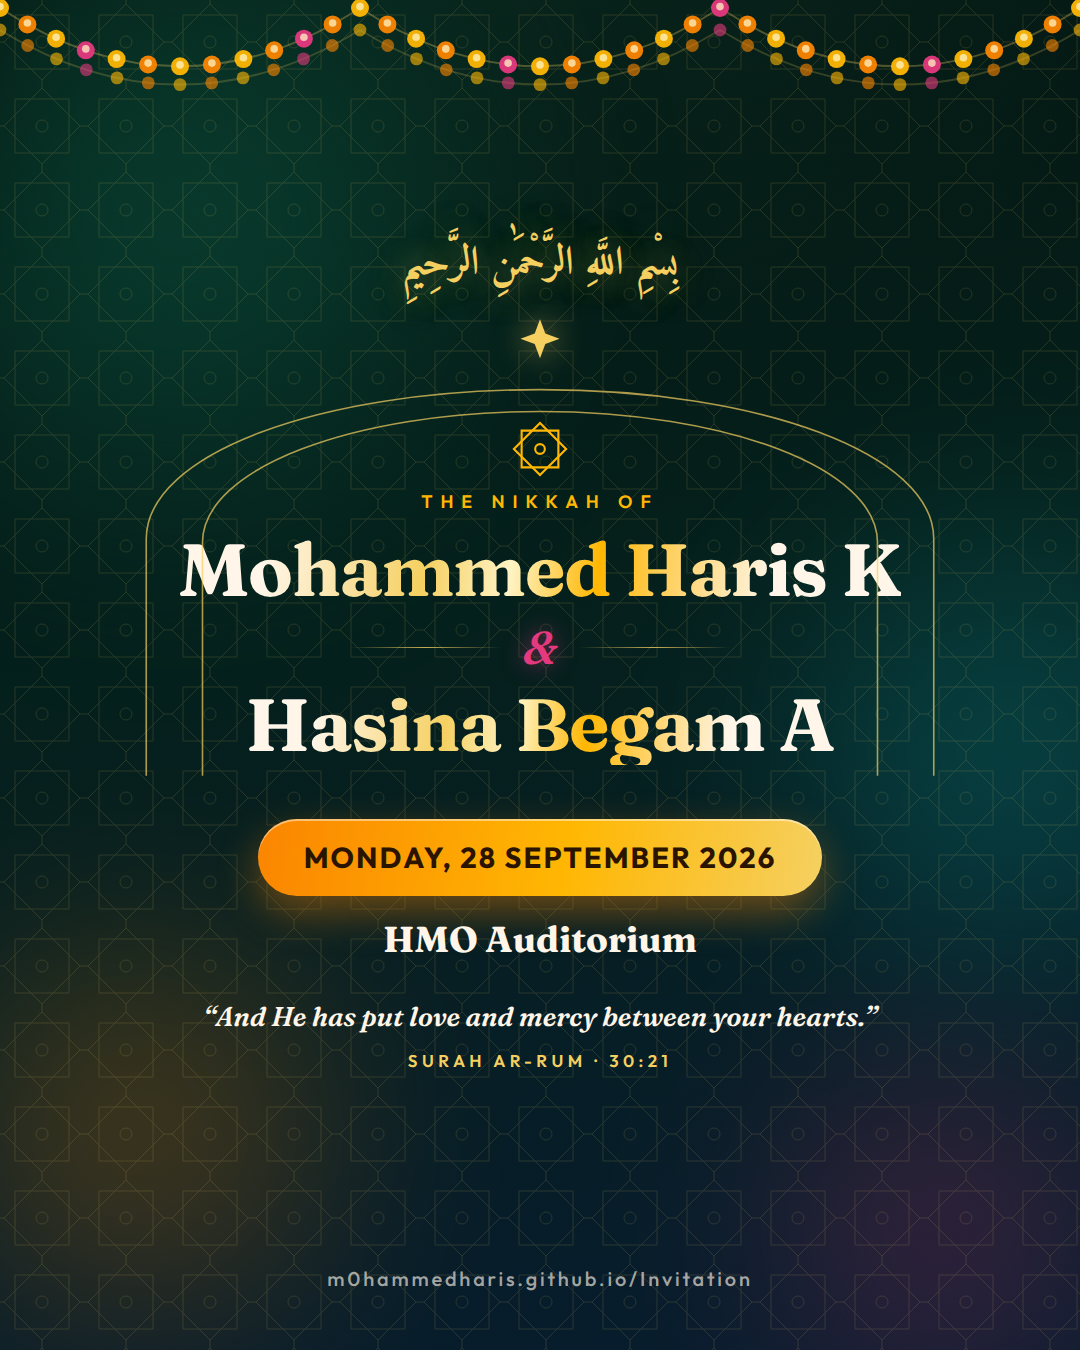
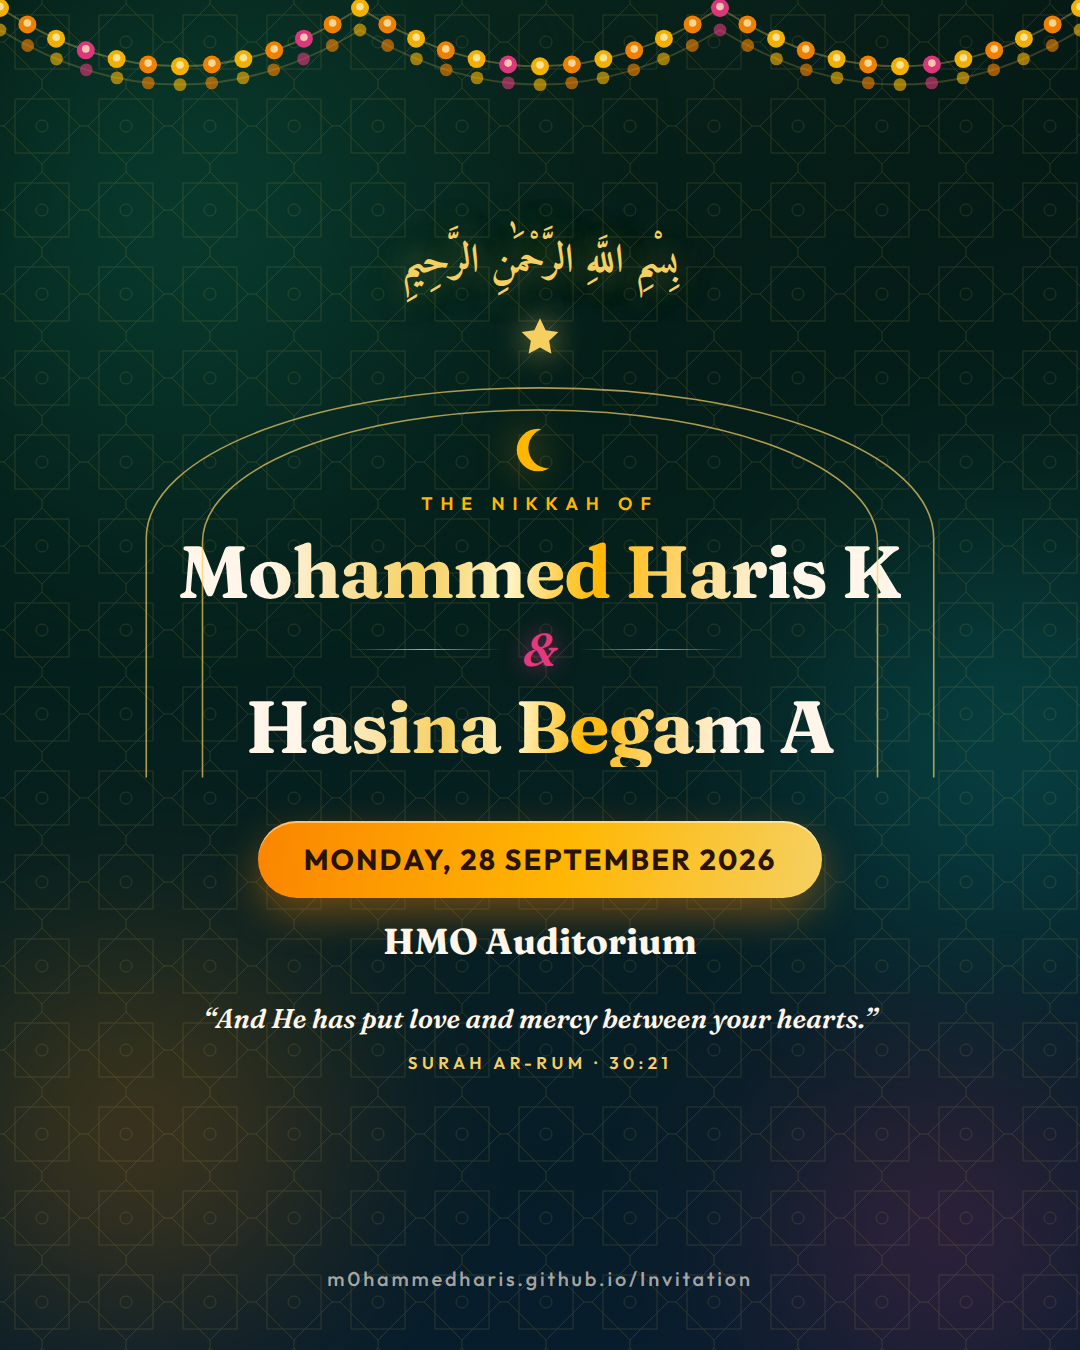
Use the crescent moon, and add a gentle auto-scroll
Symbols: the eight-pointed star medallions above "The Nikkah of" and in
the footer are now the hilal, the crescent moon, matching the other
designs. The arch apex is a five-pointed star rather than a generic
four-point sparkle, so the crescent and star together read as the
Islamic symbol. The OG image and the shareable poster follow suit.

The girih lattice in the background is left as it is: it is a real
Islamic geometric pattern rather than a decorative mark, and tiling
crescents in its place would look like wallpaper.

Auto-scroll: after seven seconds on the hero — long enough to take in
the names and the date — the page walks itself down through the verse,
countdown, details and share sections, pausing on each. Any sign the
guest wants to steer (wheel, touch, key, pointer, or their own scroll)
hands control back permanently. It never runs under
prefers-reduced-motion, and it does not count time while the tab is in
the background.

Also renamed the crescent's keyframe to `tilt`; declaring it as `sway`
would have silently overridden the garland buds' animation of the same
name.

Claude-Session: https://claude.ai/code/session_01T3JYopABqw7Toi6fBV24kk

diff --git a/script.js b/script.js
@@ -330,6 +330,67 @@
     });
   }
 
+  /* ── 8. Gentle auto-scroll ──────────────────────────────────
+     Walks the guest down the invitation once, pausing long enough to
+     read each stop. Any hint that they want to steer — a wheel, a
+     touch, a key, the scrollbar — hands control back for good.      */
+
+  function autoTour() {
+    if (reduceMotion) { return; }
+
+    var stops = ["#verse", "#countdown", "#details", "#share"]
+      .map(function (sel) { return document.querySelector(sel); })
+      .filter(Boolean);
+    if (!stops.length) { return; }
+
+    var FIRST = 7000;   // time to take in the names and the date
+    var NEXT  = 6500;   // time to read each section after that
+    var i = 0;
+    var timer = null;
+    var stopped = false;
+    var settling = false;   // true while our own smooth scroll is running
+
+    function cancel() {
+      if (stopped) { return; }
+      stopped = true;
+      window.clearTimeout(timer);
+      ["wheel", "touchstart", "keydown", "pointerdown", "scroll"].forEach(function (ev) {
+        window.removeEventListener(ev, onIntent, true);
+      });
+    }
+
+    function onIntent(e) {
+      // Our own smooth scrolling fires scroll events; only a real input
+      // during that window counts as the guest taking over.
+      if (e.type === "scroll" && settling) { return; }
+      cancel();
+    }
+
+    function step() {
+      if (stopped || i >= stops.length) { cancel(); return; }
+
+      settling = true;
+      stops[i].scrollIntoView({ behavior: "smooth", block: "start" });
+      i++;
+
+      // Let the smooth scroll finish before we listen to scroll again
+      window.setTimeout(function () { settling = false; }, 1400);
+      timer = window.setTimeout(step, NEXT);
+    }
+
+    ["wheel", "touchstart", "keydown", "pointerdown", "scroll"].forEach(function (ev) {
+      window.addEventListener(ev, onIntent, { capture: true, passive: true });
+    });
+
+    // Don't count time while the tab is in the background
+    document.addEventListener("visibilitychange", function () {
+      if (document.hidden) { window.clearTimeout(timer); }
+      else if (!stopped) { timer = window.setTimeout(step, NEXT); }
+    });
+
+    timer = window.setTimeout(step, FIRST);
+  }
+
   /* ── boot ───────────────────────────────────────────────── */
 
   function init() {
@@ -340,6 +401,7 @@
     rise();
     addToCalendar();
     copyLink();
+    autoTour();
   }
 
   if (document.readyState === "loading") {

diff --git a/style.css b/style.css
@@ -260,23 +260,35 @@ body {
   gap: .55rem;
 }
 
-/* 8-point khatam star */
+/* Hilal — the crescent moon */
 /* Both animations are declared together: an ambient `animation` on an
    element that also carries [data-in] would otherwise replace the entry
    animation and strand it at opacity 0. */
-.khatam {
+.hilal {
   display: block;
-  width: 40px;
-  height: 40px;
+  width: 46px;
+  height: 46px;
   color: var(--marigold);
+  filter: drop-shadow(0 0 16px rgba(255, 183, 3, .45));
   animation:
     liftIn 1s var(--ease) var(--d, 0s) both,
-    spin 34s linear infinite;
+    tilt 9s ease-in-out infinite;
 }
-.khatam svg { width: 100%; height: 100%; display: block; }
-.khatam path, .khatam circle { stroke: currentColor; stroke-width: 2.2; }
-.khatam--sm { width: 30px; height: 30px; color: var(--gold); opacity: .8; margin: 0 auto 1rem; }
-@keyframes spin { to { transform: rotate(360deg); } }
+.hilal svg { width: 100%; height: 100%; display: block; }
+.hilal--sm {
+  width: 40px;
+  height: 40px;
+  color: var(--gold);
+  margin: 0 auto 1rem;
+  filter: drop-shadow(0 0 14px rgba(245, 208, 97, .4));
+}
+
+/* A moon should tilt, not spin. Named `tilt` because `sway` is already
+   taken by the garland buds. */
+@keyframes tilt {
+  0%, 100% { transform: rotate(-8deg); }
+  50%      { transform: rotate(8deg); }
+}
 
 .kicker {
   margin: .3rem 0 0;
@@ -312,7 +324,7 @@ body {
   -webkit-background-clip: text;
   background-clip: text;
   color: transparent;
-  /* Entry lift and gold sweep together — see the note on .khatam */
+  /* Entry lift and gold sweep together — see the note on .hilal */
   animation:
     liftIn 1s var(--ease) var(--d, 0s) both,
     leaf 9s ease-in-out infinite;
@@ -740,7 +752,7 @@ main { position: relative; z-index: 5; }
   .nm        { font-size: 3.4rem; }
   .amp       { width: min(100%, 340px); }
   .amp b     { font-size: 1.9rem; }
-  .khatam    { width: 48px; height: 48px; }
+  .hilal     { width: 54px; height: 54px; }
   .kicker    { font-size: .78rem; }
 
   /* Wide enough to hold one line instead of breaking after "at" */

diff --git a/index.html b/index.html
@@ -61,15 +61,17 @@
 
     <!-- Kept out of the stretched arch so the star stays a star -->
     <svg class="spark" viewBox="0 0 40 40" aria-hidden="true">
-      <path d="M20 1 l4.6 12.4 12.4 4.6 -12.4 4.6 -4.6 12.4 -4.6 -12.4 -12.4 -4.6 12.4 -4.6 z"/>
+      <path d="M20 2 l4.94 10.35 11.06 1.5 -8.06 7.73 1.98 11.17L20 27.4 l-9.92 5.35 1.98-11.17 -8.06-7.73 11.06-1.5 z"/>
     </svg>
 
     <div class="hero-core">
-      <span class="khatam" data-in style="--d:.5s" aria-hidden="true">
-        <svg viewBox="0 0 60 60" fill="none">
-          <path d="M30 3 L57 30 L30 57 L3 30 Z"/>
-          <path d="M11 11 H49 V49 H11 Z"/>
-          <circle cx="30" cy="30" r="5"/>
+      <span class="hilal" data-in style="--d:.5s" aria-hidden="true">
+        <svg viewBox="0 0 64 64" fill="none">
+          <mask id="hilal-hero">
+            <rect width="64" height="64" fill="#fff"/>
+            <circle cx="41" cy="31" r="21" fill="#000"/>
+          </mask>
+          <circle cx="30" cy="33" r="22" fill="currentColor" mask="url(#hilal-hero)"/>
         </svg>
       </span>
 
@@ -183,11 +185,14 @@
 </main>
 
 <footer class="footer">
-  <span class="khatam khatam--sm" aria-hidden="true">
-    <svg viewBox="0 0 60 60" fill="none">
-      <path d="M30 3 L57 30 L30 57 L3 30 Z"/>
-      <path d="M11 11 H49 V49 H11 Z"/>
-      <circle cx="30" cy="30" r="5"/>
+  <span class="hilal hilal--sm" aria-hidden="true">
+    <svg viewBox="0 0 64 64" fill="none">
+      <mask id="hilal-foot">
+        <rect width="64" height="64" fill="#fff"/>
+        <circle cx="41" cy="31" r="21" fill="#000"/>
+      </mask>
+      <circle cx="30" cy="33" r="22" fill="currentColor" mask="url(#hilal-foot)"/>
+      <path d="M50 13l2.4 5.4 5.9.6-4.4 4 1.2 5.8-5.1-3-5.1 3 1.2-5.8-4.4-4 5.9-.6z" fill="currentColor" opacity=".9"/>
     </svg>
   </span>
   <p class="dua" data-rise>May Allah bless this union with love, mercy, and tranquility.</p>
